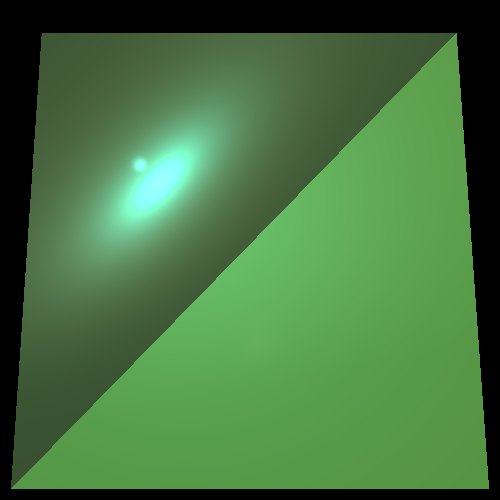
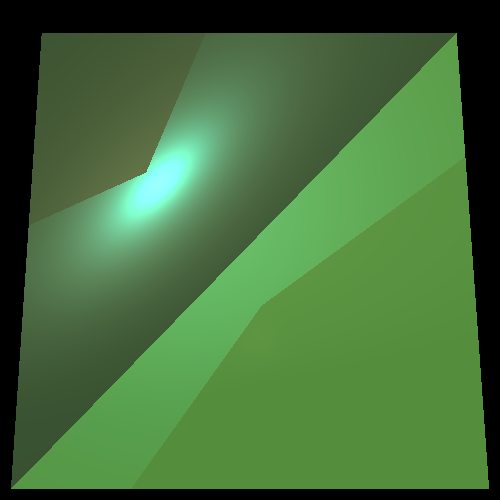
ex7: part 2,step 3-5 Correcting pictures in question 3 + Part 3 without creating an image (question 6)

Changed region(s): [[0.42, 0.48, 0.69, 0.75], [0.12, 0.18, 0.36, 0.42]]

diff --git a/src/renderer/SimpleRayTracer.java b/src/renderer/SimpleRayTracer.java
@@ -40,9 +40,9 @@ public class SimpleRayTracer extends RayTracerBase {
      */
     private boolean unshaded(GeoPoint gp, Vector l, Vector n, LightSource light) {
         Vector lightDirection = l.scale(-1); // from point to light source
-        Vector delta = n.scale(n.dotProduct(lightDirection) > 0 ? DELTA : -DELTA);
-        Point point = gp.point.add(delta);
-        Ray shadowRay = new Ray(point, lightDirection);
+//        Vector delta = n.scale(n.dotProduct(lightDirection) > 0 ? DELTA : -DELTA);
+//        Point point = gp.point.add(delta);
+        Ray shadowRay = new Ray(gp.point, lightDirection, n);
         var intersections = scene.geometries.findGeoIntersections(shadowRay);
         if (intersections == null) return true;
         double lightDistance = light.getDistance(gp.point);
@@ -52,6 +52,29 @@ public class SimpleRayTracer extends RayTracerBase {
         }
         return true;
     }
+
+    /**
+     * Calculates the transparency of a point.
+     *
+     * @param geoPoint the intersection point
+     * @param ls the light source
+     * @param l the light direction vector
+     * @param n the normal vector at the intersection point
+     * @return the transparency of the point as a Double3
+     */
+    private Double3 transparency(GeoPoint geoPoint, LightSource ls, Vector l, Vector n){
+        Vector lightDirection = l.scale(-1); // from point to light source
+        Ray lightRay = new Ray(geoPoint.point, lightDirection, n);
+        var intersections = scene.geometries.findGeoIntersections(lightRay);
+        if (intersections == null) return Double3.ONE;
+        Double3 ktr = Double3.ONE;
+        for (GeoPoint gp : intersections) {
+                ktr = ktr.product(gp.geometry.getMaterial().kT);
+                if (ktr.lowerThan(MIN_CALC_COLOR_K)) return Double3.ZERO;
+        }
+        return ktr;
+    }
+
 
 
     @Override
@@ -90,7 +113,7 @@ public class SimpleRayTracer extends RayTracerBase {
      * @return the calculated color at the intersection point
      */
     private Color calcColor(GeoPoint intersection, Ray ray, int level, Double3 k) {
-        Color color = calcLocalEffects(intersection, ray);
+        Color color = calcLocalEffects(intersection, ray, k);
         return 1 == level ? color : color.add(calcGlobalEffects(intersection, ray, level, k));
     }
 
@@ -104,8 +127,8 @@ public class SimpleRayTracer extends RayTracerBase {
      */
     private Color calcGlobalEffects(GeoPoint gp, Ray ray, int level, Double3 k) {
         Material material = gp.geometry.getMaterial();
-        return calcGlobalEffect(constructRefractedRay(gp, ray), material.kR, level, k)
-                .add(calcGlobalEffect(constructReflectedRay(gp, ray), material.kT, level, k));
+        return calcGlobalEffect(constructRefractedRay(gp, ray), material.kT, level, k)
+                .add(calcGlobalEffect(constructReflectedRay(gp, ray), material.kR, level, k));
     }
 
     /**
@@ -116,7 +139,7 @@ public class SimpleRayTracer extends RayTracerBase {
      * @param kx the attenuation factor for the specific global effect
      * @return the calculated color considering the global effect
      */
-    private Color calcGlobalEffect(Ray ray, Double3 k, int level, Double3 kx) {
+    private Color calcGlobalEffect(Ray ray, Double3 kx, int level,Double3 k) {
         Double3 kkx = k.product(kx);
         if (kkx.lowerThan(MIN_CALC_COLOR_K)) return Color.BLACK;
         GeoPoint gp = findClosestIntersection(ray);
@@ -135,10 +158,10 @@ public class SimpleRayTracer extends RayTracerBase {
         Point point = geoPoint.point;
 
         // Move the starting point slightly in the direction of the ray to avoid self-intersection
-        Vector deltaVector = direction.scale(DELTA);
-        Point movedPoint = point.add(deltaVector);
-
-        return new Ray(movedPoint, direction);
+//        Vector deltaVector = direction.scale(DELTA);
+//        Point movedPoint = point.add(deltaVector);
+        Vector normal = geoPoint.geometry.getNormal(point);
+        return new Ray(point, direction, normal);
     }
 
     /**
@@ -156,10 +179,10 @@ public class SimpleRayTracer extends RayTracerBase {
         Vector reflectedDirection = direction.subtract(normal.scale(2 * direction.dotProduct(normal)));
 
         // Move the starting point slightly in the direction of the reflected ray to avoid self-intersection
-        Vector deltaVector = normal.scale(DELTA);
-        Point movedPoint = point.add(deltaVector);
+//        Vector deltaVector = normal.scale(normal.dotProduct(direction) > 0 ? -DELTA : DELTA);
+//        Point movedPoint = point.add(deltaVector);
 
-        return new Ray(movedPoint, reflectedDirection);
+        return new Ray(point, reflectedDirection, normal);
     }
 
 
@@ -171,7 +194,7 @@ public class SimpleRayTracer extends RayTracerBase {
      * @param ray the ray that intersects the geometry
      * @return the color at the intersection point
      */
-    private Color calcLocalEffects(GeoPoint gp, Ray ray) {
+    private Color calcLocalEffects(GeoPoint gp, Ray ray, Double3 k) {
         Vector n = gp.geometry.getNormal(gp.point);
         Vector v = ray.getDirection();
         double nv = alignZero(n.dotProduct(v));
@@ -182,10 +205,12 @@ public class SimpleRayTracer extends RayTracerBase {
         for (LightSource lightSource : scene.lights) {
             Vector l = lightSource.getL(gp.point);
             double nl = alignZero(n.dotProduct(l));
-            if ((nl * nv > 0) && unshaded(gp, l, n, lightSource)){
-                // sign(nl) == sign(nv);
-                Color iL = lightSource.getIntensity(gp.point);
-                color = color.add(iL.scale(calcDiffusive(material, nl).add(calcSpecular(material, n, l, nl, v))));
+            if ((nl * nv > 0)) {// sign(nl) == sign(nv))
+                Double3 ktr = transparency(gp, lightSource, l, n);
+                if (ktr.product(k).greaterThan(MIN_CALC_COLOR_K)) {
+                    Color iL = lightSource.getIntensity(gp.point).scale(ktr);
+                    color = color.add(iL.scale(calcDiffusive(material, nl).add(calcSpecular(material, n, l, nl, v))));
+                }
             }
         }
         return color;

diff --git a/src/primitives/Ray.java b/src/primitives/Ray.java
@@ -14,6 +14,11 @@ public class Ray {
     final Vector direction;
 
     /**
+     * The delta value used to prevent self-shadowing.
+     */
+    private static final double DELTA = 0.1;
+
+    /**
      * Constructs a new ray with the specified head and direction.
      *
      * @param head the starting point of the ray
@@ -23,7 +28,13 @@ public class Ray {
         this.head = head;
         this.direction = direction.normalize();
     }
-    /**
+
+    public Ray(Point head, Vector direction, Vector normal){
+        // Move the starting point slightly in the direction of the reflected ray to avoid self-intersection
+        Vector deltaVector = normal.scale(normal.dotProduct(direction) > 0 ? DELTA : -DELTA);
+        this.head = head.add(deltaVector);
+        this.direction = direction.normalize();
+    }    /**
      * Returns the starting point of the ray.
      *
      * @return starting point of ray.
@@ -31,6 +42,8 @@ public class Ray {
     public Point getP0() {
         return head;
     }
+
+
 
     /**
      * Returns the directional vector of the ray.

diff --git a/src/primitives/Double3.java b/src/primitives/Double3.java
@@ -117,4 +117,11 @@ public class Double3 {
     *               triad, false otherwise
     */
    public boolean lowerThan(Double3 other) { return d1 < other.d1 && d2 < other.d2 && d3 < other.d3; }
+
+    /**
+     * Checks whether all the numbers are greater than a test number
+     * @param  other the test number
+     * @return   true if all the numbers are greater than k, false otherwise
+     */
+   public boolean greaterThan(double other) { return d1 > other && d2 > other && d3 > other; }
 }

diff --git a/src/primitives/Point.java b/src/primitives/Point.java
@@ -12,6 +12,7 @@ public class Point {
      */
     final protected Double3 xyz;
 
+
     /**
      * A constant representing a point at the origin (0,0,0).
      */
@@ -102,4 +103,5 @@ public class Point {
     public Vector subtract(Point point) {
         return new Vector(xyz.subtract(point.xyz));
     }
+
 }
